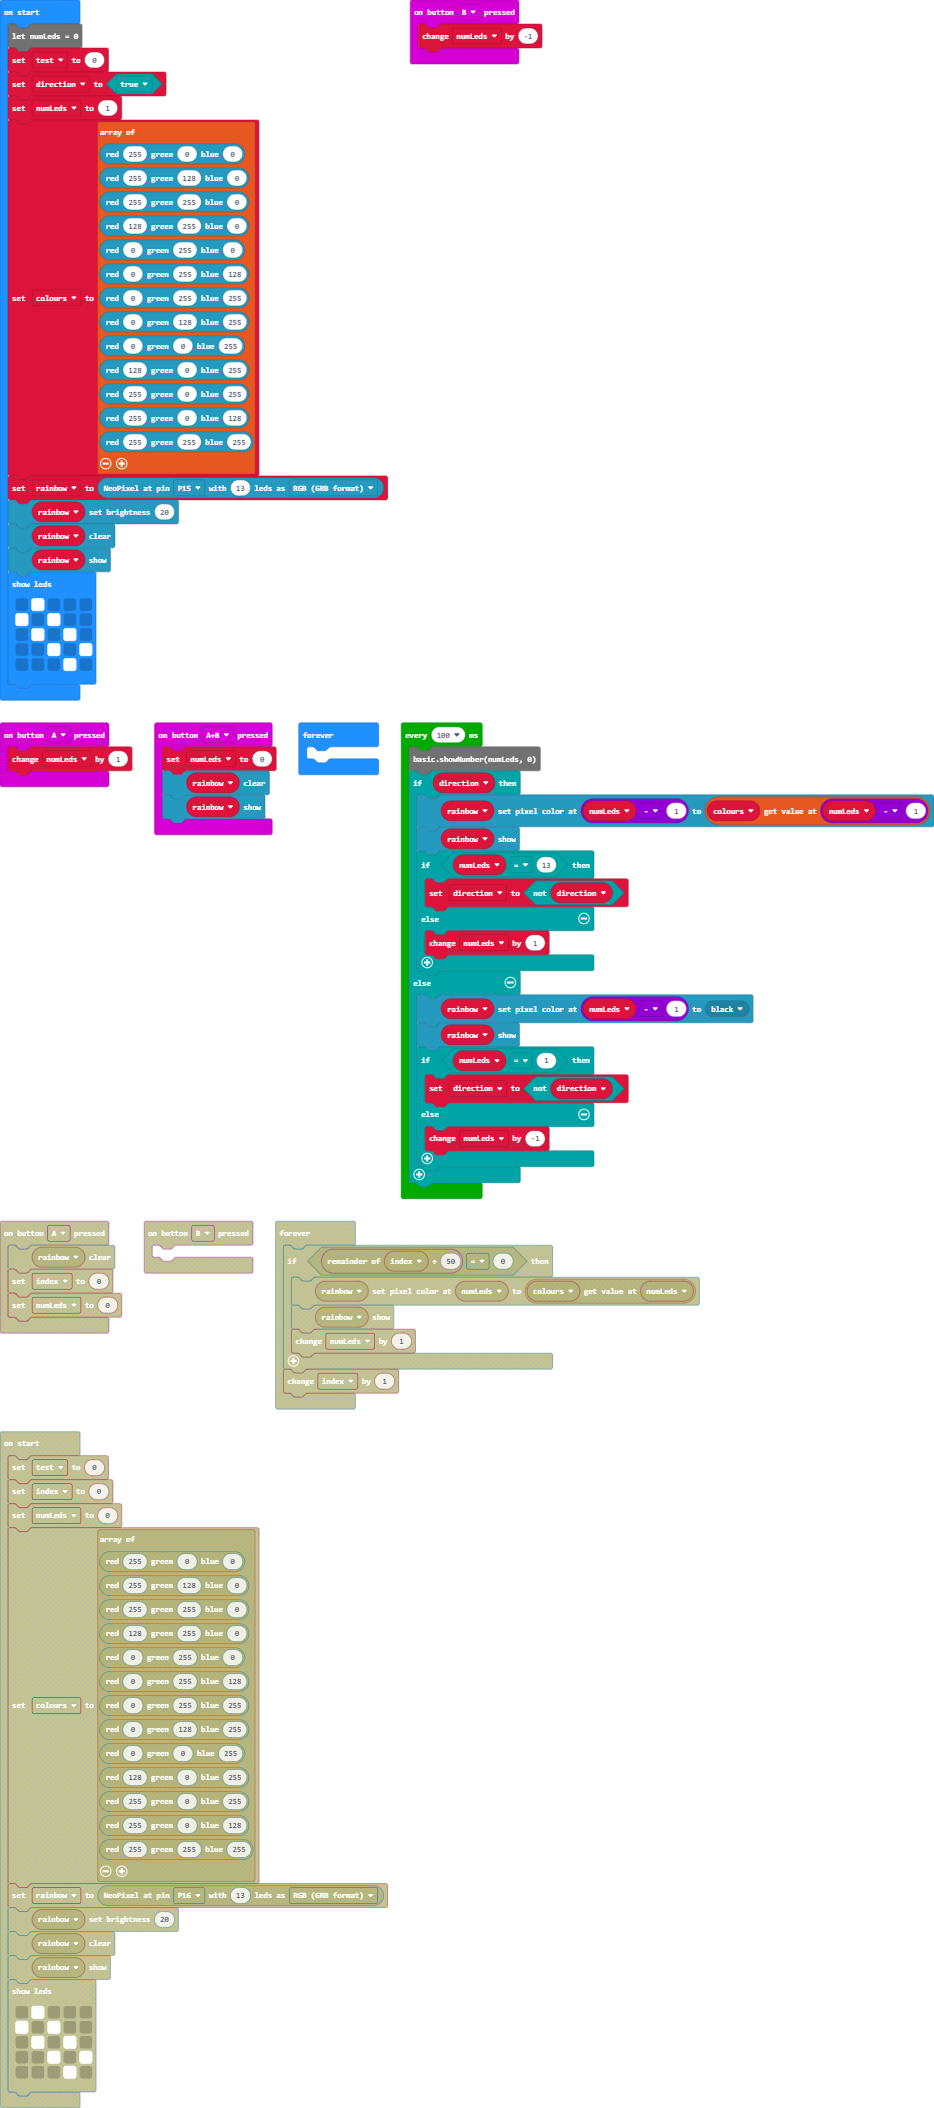
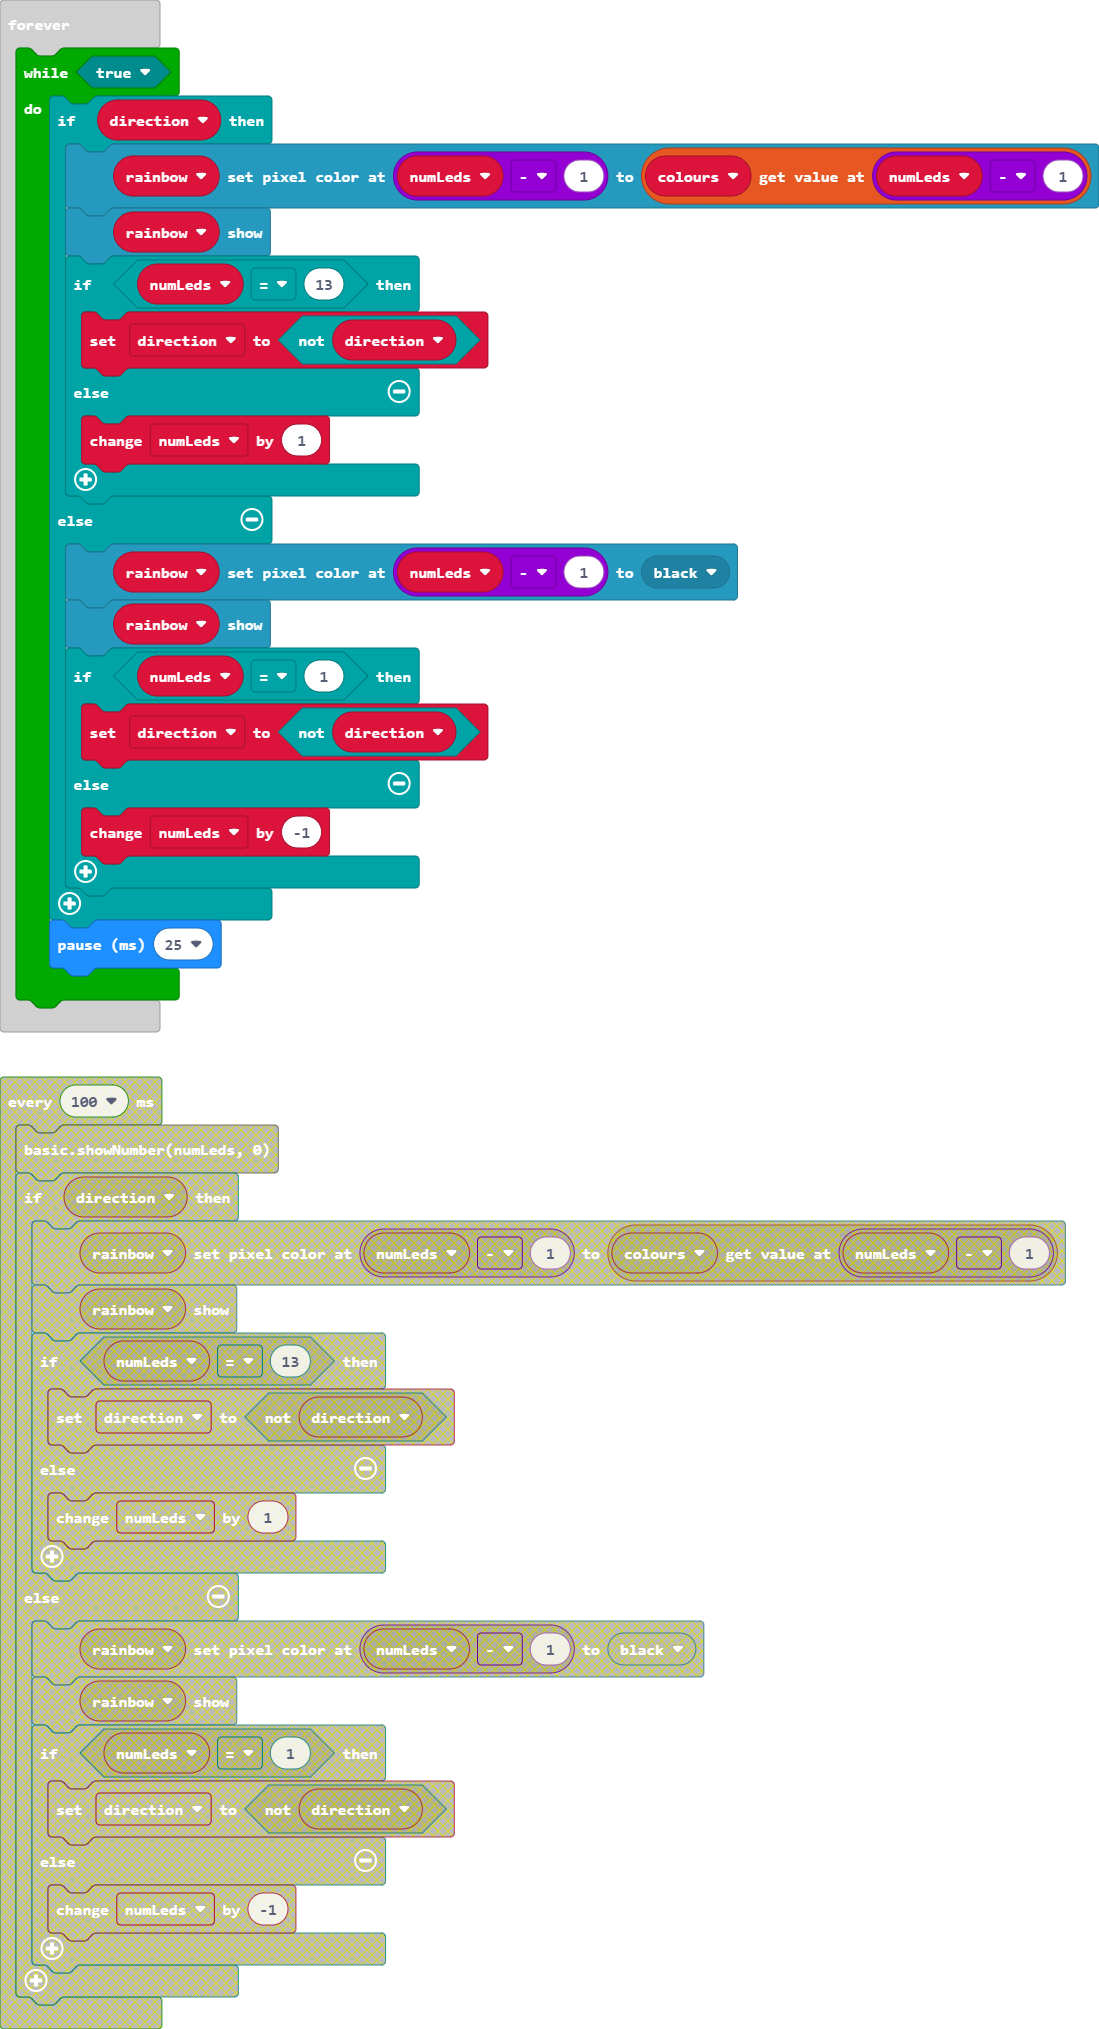
Update main.blocks, main.ts, main.py

diff --git a/main.ts b/main.ts
@@ -44,25 +44,24 @@ basic.showLeds(`
     . . . # .
     `)
 basic.forever(function () {
-	
-})
-loops.everyInterval(100, function () {
-    basic.showNumber(numLeds, 0)
-if (direction) {
-        rainbow.setPixelColor(numLeds - 1, colours[numLeds - 1])
-        rainbow.show()
-        if (numLeds == 13) {
-            direction = !(direction)
+    while (true) {
+        if (direction) {
+            rainbow.setPixelColor(numLeds - 1, colours[numLeds - 1])
+            rainbow.show()
+            if (numLeds == 13) {
+                direction = !(direction)
+            } else {
+                numLeds += 1
+            }
         } else {
-            numLeds += 1
+            rainbow.setPixelColor(numLeds - 1, neopixel.colors(NeoPixelColors.Black))
+            rainbow.show()
+            if (numLeds == 1) {
+                direction = !(direction)
+            } else {
+                numLeds += -1
+            }
         }
-    } else {
-        rainbow.setPixelColor(numLeds - 1, neopixel.colors(NeoPixelColors.Black))
-        rainbow.show()
-        if (numLeds == 1) {
-            direction = !(direction)
-        } else {
-            numLeds += -1
-        }
+        basic.pause(25)
     }
 })

diff --git a/main.py b/main.py
@@ -10,16 +10,20 @@ def on_button_pressed_ab():
     rainbow.show()
 input.on_button_pressed(Button.AB, on_button_pressed_ab)
 
+def on_button_pressed_b():
+    global numLeds
+    numLeds += -1
+input.on_button_pressed(Button.B, on_button_pressed_b)
+
 def on_logo_pressed():
     pass
 input.on_logo_event(TouchButtonEvent.PRESSED, on_logo_pressed)
 
-index = 0
 rainbow: neopixel.Strip = None
-test = 0
-numLeds = 0 
-direction = True
 numLeds = 0
+test = 0
+direction = True
+numLeds = 1
 colours = [neopixel.rgb(255, 0, 0),
     neopixel.rgb(255, 128, 0),
     neopixel.rgb(255, 255, 0),
@@ -45,24 +49,23 @@ basic.show_leds("""
         . . . # .
 """)
 
-def on_every_interval():
-    global index, direction
-    if index == 1:
-        index = 0
-        basic.show_number(numLeds, 0)
-        if numLeds == 0:
-            rainbow.clear()
-            if direction:
-                rainbow.set_pixel_color(numLeds - 1, colours[numLeds - 1])
-            else:
-                if True:
-                    direction = not (direction)
-        else:
-            pass
-    else:
-        index += 1
-loops.every_interval(50, on_every_interval)
-
 def on_forever():
-    pass
+    global direction, numLeds
+    while True:
+        basic.show_number(numLeds, 0)
+        if direction:
+            rainbow.set_pixel_color(numLeds - 1, colours[numLeds - 1])
+            rainbow.show()
+            if numLeds == 13:
+                direction = not (direction)
+            else:
+                numLeds += 1
+        else:
+            rainbow.set_pixel_color(numLeds - 1, neopixel.colors(NeoPixelColors.BLACK))
+            rainbow.show()
+            if numLeds == 1:
+                direction = not (direction)
+            else:
+                numLeds += -1
+        basic.pause(25)
 basic.forever(on_forever)
